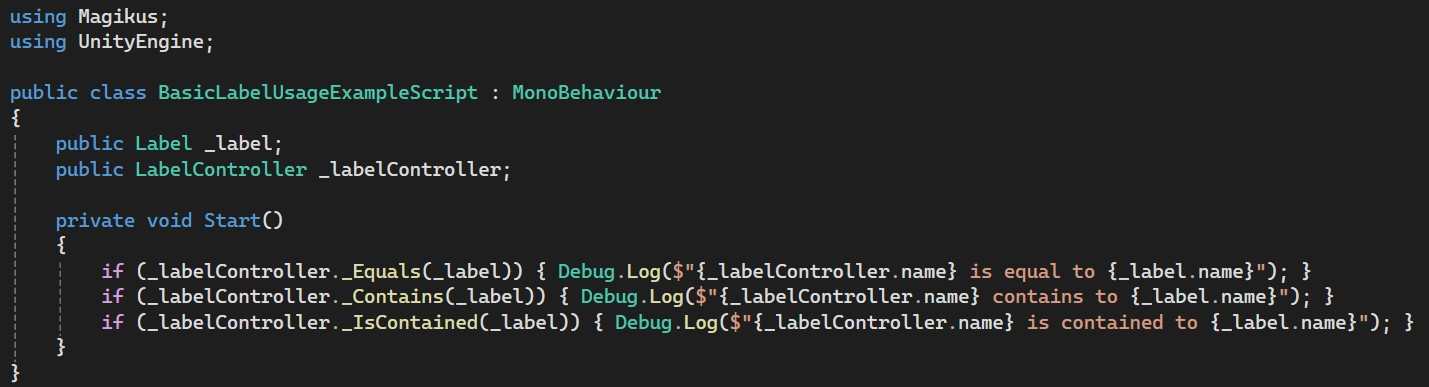
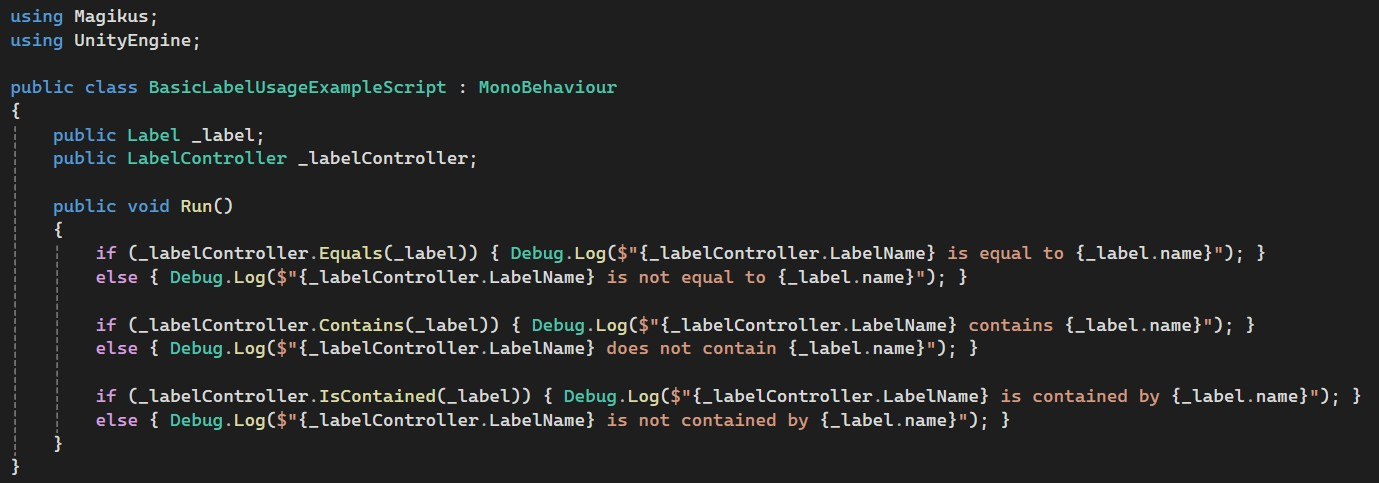
Update 28-04-25

diff --git a/src/Views/Library/Systems/Label.js b/src/Views/Library/Systems/Label.js
@@ -58,21 +58,22 @@ export default function Function() {
                 <div>
                     <h5 className="c-light-1">Properties</h5>
                     <ul className="property-list">
-                        <li><b2>Label</b2> <b1>_label</b1>: Label asset</li>
+                        <li><b2>private Label</b2> <b1>_label</b1>: Label asset</li>
+                        <li><b2>string</b2> <b1>LabelName</b1>: Returns the name of the label asset</li>
                     </ul>
                     <h5 className="c-light-1">Methods</h5>
                     <ul className="property-list">
-                        <li><b2>bool</b2> <b1>_Equals</b1>(<b2>Label</b2> <b1>labels</b1>): Evaluates if the list of label assets of this label are equal to the list of label assets of the specified label</li>
-                        <li><b2>bool</b2> <b1>_Contains</b1>(<b2>Label</b2> <b1>labels</b1>): Evaluates if the list of label assets of this label contains the list of label assets of the specified label</li>
-                        <li><b2>bool</b2> <b1>_IsContained</b1>(<b2>Label</b2> <b1>labels</b1>): Evaluates if the list of label assets of this label are contained in the list of label assets of the specified label</li>
+                        <li><b2>bool</b2> <b1>Equals</b1>(<b2>Label</b2> <b1>labels</b1>): Evaluates if the list of label assets of this label are equal to the list of label assets of the specified label</li>
+                        <li><b2>bool</b2> <b1>Contains</b1>(<b2>Label</b2> <b1>labels</b1>): Evaluates if the list of label assets of this label contains the list of label assets of the specified label</li>
+                        <li><b2>bool</b2> <b1>IsContained</b1>(<b2>Label</b2> <b1>labels</b1>): Evaluates if the list of label assets of this label are contained in the list of label assets of the specified label</li>
                     </ul>
                 </div>
             )}/>
 
-            <h3 className="p-2">Examples</h3>
+            <h3 className="p-2">How to Use</h3>
             <Group title="Step 1: Creating Label Assets" content={(
                 <div>
-                    <img className="block-center mar-bottom-3 img-border w-60" src="images/Library/Systems/Labels/Labels - 01.jpg" alt=""/>            
+                    <img className="block-center mar-bottom-3 img-border w-90" src="images/Library/Systems/Labels/Labels - 01.gif" alt=""/>            
                     <p> 
                         <b1>Creating a Label</b1>: Go to the Unity menu, <b1>Assets {">"} Create {">"} Magikus {">"} Label System {">"} Label Asset</b1>. 
                         This creates a LabelAssetStructure instance that you can name and assign in the Inspector.
@@ -83,25 +84,96 @@ export default function Function() {
                         This creates a LabelGroupAssetStructure instance, allowing you to include multiple LabelAssetStructure instances as a group.
                     </p>
                     <img className="block-center mar-bottom-3 img-border w-60" src="images/Library/Systems/Labels/Labels - 03.jpg" alt=""/>            
+                    <p> 
+                        Here are the two new labels created:
+                    </p>
+                    <img className="block-center mar-bottom-3 img-border w-60" src="images/Library/Systems/Labels/Labels - 01.jpg" alt=""/>            
                 </div>
             )}/>
             <Group title="Step 2: Using Label Controller" content={(
                 <div>
+                    <p> 
+                        Attach the LabelController component to a game object in the scene.
+                    </p>
+                    <img className="block-center mar-bottom-3 img-border w-40" src="images/Library/Systems/Labels/Labels - 02.gif" alt=""/>            
+                    <p> 
+                        Assign a Label or Label Group to the _label field in the Inspector.
+                    </p>
                     <img className="block-center mar-bottom-3 img-border w-60" src="images/Library/Systems/Labels/Labels - 04.jpg" alt=""/>            
-                    <p> 
-                        Attach the LabelController component to a game object in the scene. Assign a Label or Label Group to the _label field in the Inspector.
-                    </p>
                 </div>
             )}/>
-            <Group title="Step 3: Checking Labels in Code" content={(
+
+            <h3 className="p-2">Examples</h3>
+            <Group title="Preparation" content={(
                 <div>
-                    <img className="block-center mar-bottom-3 img-border" src="images/Library/Systems/Labels/Labels - 05.jpg" alt=""/>            
                     <p> 
-                        Use the provided methods in the LabelController or in the Label structures to check if a game object has a specific label or label group.
+                        In this examples we will use the provided methods in the LabelController or in the Label structures to check if a gameobject has a specific label or label group.
                     </p>
-                    <img className="block-center mar-bottom-3 img-border w-60" src="images/Library/Systems/Labels/Labels - 06.jpg" alt=""/>            
+                    <img className="block-center mar-bottom-3 img-border w-90" src="images/Library/Systems/Labels/Labels - 05.jpg" alt=""/>            
+                    <p> 
+                        First we will create 2 Label assets and 2 Label Group assets.
+                    </p>
+                    <img className="block-center mar-bottom-3 img-border w-40" src="images/Library/Systems/Labels/Labels - 07.jpg" alt=""/>            
+                    <p> 
+                        The 2 Label assets will be called Label A and Label B.
+                    </p>
+                    <img className="block-center mar-bottom-3 img-border" src="images/Library/Systems/Labels/Labels - 08.jpg" alt=""/>            
+                    <p> 
+                        The group assets will be called Label A Group and Label AB Group. 
+                        The first will only contain the Label A, and the second one will contain the Label A and the Label B.
+                    </p>
+                    <img className="block-center mar-bottom-3 img-border w-90" src="images/Library/Systems/Labels/Labels - 09.jpg" alt=""/>                                
                 </div>
             )}/>
+            <Group title="Example 01: Comparing Label A with Label A" content={(
+                <div>
+                    <p> 
+                        The first example will compare the Label A asset with the same Label A asset.
+                    </p>
+                    <img className="block-center mar-bottom-3 img-border w-50" src="images/Library/Systems/Labels/Labels - 10.jpg" alt=""/>            
+                    <p> 
+                        It's important to notice that they are equal and so they contain each other.                    
+                    </p>
+                    <img className="block-center mar-bottom-3 img-border w-50" src="images/Library/Systems/Labels/Labels - 11.jpg" alt=""/>            
+                </div>
+            )}/>
+            <Group title="Example 02: Comparing Label A with Label B" content={(
+                <div>
+                    <p> 
+                        Here, the script will compare the Label A asset with the Label B asset.
+                    </p>
+                    <img className="block-center mar-bottom-3 img-border w-50" src="images/Library/Systems/Labels/Labels - 12.jpg" alt=""/>            
+                    <p> 
+                        Since they are unequal and none of them are group assets they do not contain each other.
+                    </p>
+                    <img className="block-center mar-bottom-3 img-border w-50" src="images/Library/Systems/Labels/Labels - 13.jpg" alt=""/>            
+                </div>
+            )}/>
+            <Group title="Example 03: Comparing Label A with Label A Group" content={(
+                <div>
+                    <p> 
+                        This script will compare the Label A asset with the Label A Group asset.
+                    </p>
+                    <img className="block-center mar-bottom-3 img-border w-50" src="images/Library/Systems/Labels/Labels - 14.jpg" alt=""/>            
+                    <p> 
+                        They are equal and they contain each other just as if Label A Group would not be a group.
+                    </p>
+                    <img className="block-center mar-bottom-3 img-border w-50" src="images/Library/Systems/Labels/Labels - 15.jpg" alt=""/>            
+                </div>
+            )}/>
+            <Group title="Example 04: Comparing Label A with Label AB Group" content={(
+                <div>
+                    <p> 
+                        Finally, this example will compare the Label A asset with the Label AB Group asset.
+                    </p>
+                    <img className="block-center mar-bottom-3 img-border w-50" src="images/Library/Systems/Labels/Labels - 16.jpg" alt=""/>            
+                    <p> 
+                        Now this is different, they are not equal but the AB Group asset does contain the A asset.
+                    </p>
+                    <img className="block-center mar-bottom-3 img-border w-50" src="images/Library/Systems/Labels/Labels - 17.jpg" alt=""/>            
+                </div>
+            )}/>
+
 
             <h3 className="p-2">Notes</h3>
             <ul>

diff --git a/src/Views/Library/Systems/Pool.js b/src/Views/Library/Systems/Pool.js
@@ -18,7 +18,7 @@ export default function Function() {
                 By leveraging this system, developers can ensure smoother gameplay experiences with reduced performance overhead.
             </p>
             <div className="p-2">
-                <img className="block-center mar-bottom-3 img-border w-60" src="images/Library/Systems/Pool/Pool - 07.jpg" alt=""/>            
+                <img className="block-center mar-bottom-3 img-border w-60" src="images/Library/Systems/Pool/Pool - 02.gif" alt=""/>            
             </div>
 
            <h3 className="p-2">Introduction</h3>
@@ -95,6 +95,7 @@ export default function Function() {
                         <li><b2>int</b2> <b1>BatchSize</b1>: Number of objects instantiated when more are needed</li>
                         <li><b2>int</b2> <b1>MinPoolSize</b1>: Minimum number of objects in the pool</li>
                         <li><b2>Toggle{"<"}int{">"}</b2> <b1>MaxPoolSize</b1>: Maximum number of objects allowed in the pool</li>
+                        <li><b2>{"Couple<Toggle<int>,SIZE_MODE>"}</b2> <b1>MaxSize</b1>: Maximum number of objects allowed either spawned or in total based on the size mode selected</li>
                         <li><b2>Toggle{"<"}float{">"}</b2> <b1>PoolCleanupRate</b1>: Rate at which excess objects are removed</li>
                         <li><b2>Toggle{"<"}float{">"}</b2> <b1>PoolAutofillRate</b1>: Rate at which missing objects are replenished</li>
                     </ul>
@@ -108,21 +109,23 @@ export default function Function() {
             </p>
             <Group title="Step 01: Add the PoolManager Component" content={(
                 <div>
+                    <img className="block-center mar-bottom-3 img-border w-60" src="images/Library/Systems/Pool/Pool - 01.jpg" alt=""/>            
                     <p> 
                         In Unity, create an empty GameObject.
                         Attach the PoolManager script to the GameObject.
                         You can find the PoolManager script in the Components menu, <b1>Magikus {">"} Pool System {">"} Pool Manager</b1>. 
                     </p>
-                    <img className="block-center mar-bottom-3 img-border w-60" src="images/Library/Systems/Pool/Pool - 01.jpg" alt=""/>            
+                    <img className="block-center mar-bottom-3 img-border w-40" src="images/Library/Systems/Pool/Pool - 03.gif" alt=""/>            
                     <p> 
                         Assign a PoolSettingsAsset to configure the pooling parameters.
                         To create a new PoolSettingsAsset go to the Unity menu, <b1>Assets {">"} Create {">"} Magikus {">"} Pool System {">"} Pool Settings Asset</b1>. 
                     </p>
-                    <img className="block-center mar-bottom-3 img-border w-60" src="images/Library/Systems/Pool/Pool - 02.jpg" alt=""/>            
+                    <img className="block-center mar-bottom-3 img-border w-90" src="images/Library/Systems/Pool/Pool - 05.gif" alt=""/>            
                     <p> 
                         Set DeactivateObjectsInPool to true if objects should be deactivated when pooled.
                         Subscribe to OnObjectSpawned, OnObjectPooled, and OnObjectCreated events in the Unity Inspector if needed.
                     </p>
+                    <img className="block-center mar-bottom-3 img-border w-60" src="images/Library/Systems/Pool/Pool - 02.jpg" alt=""/>            
                 </div>
             )}/>
             <Group title="Step 02: Configure the PoolObjectController" content={(
@@ -131,11 +134,12 @@ export default function Function() {
                         Attach the PoolObjectController script to the objects that need pooling.
                         You can find the PoolObjectController script in the Components menu, <b1>Magikus {">"} Pool System {">"} Pool Object Controller</b1>. 
                     </p>
-                    <img className="block-center mar-bottom-3 img-border w-60" src="images/Library/Systems/Pool/Pool - 03.jpg" alt=""/>            
+                    <img className="block-center mar-bottom-3 img-border w-40" src="images/Library/Systems/Pool/Pool - 04.gif" alt=""/>            
                     <p> 
                         Assign a this object to the Pool Object reference of the Pool Manager in the Inspector.
                         Subscribe to OnSpawn, OnKill, and OnCreate events in the Unity Inspector if needed.
                     </p>
+                    <img className="block-center mar-bottom-3 img-border w-60" src="images/Library/Systems/Pool/Pool - 03.jpg" alt=""/>            
                 </div>
             )}/>
             <Group title="Step 03: Spawning Objects from the Inspector" content={(
@@ -161,11 +165,12 @@ export default function Function() {
             )}/>
             <Group title="Step 05: Automatic Pool Management" content={(
                 <div>
+                    <img className="block-center mar-bottom-3 img-border w-60" src="images/Library/Systems/Pool/Pool - 06.jpg" alt=""/>            
                     <p> 
                         Adjust the PoolSettingsAsset to control automatic cleanup and auto-fill behaviors to maintain optimal performance.
                         The OnObjectCreated event will trigger when new objects are instantiated.
                     </p>
-                    <img className="block-center mar-bottom-3 img-border w-60" src="images/Library/Systems/Pool/Pool - 06.jpg" alt=""/>            
+                    <img className="block-center mar-bottom-3 img-border w-90" src="images/Library/Systems/Pool/Pool - 01.gif" alt=""/>            
                 </div>
             )}/>
 
